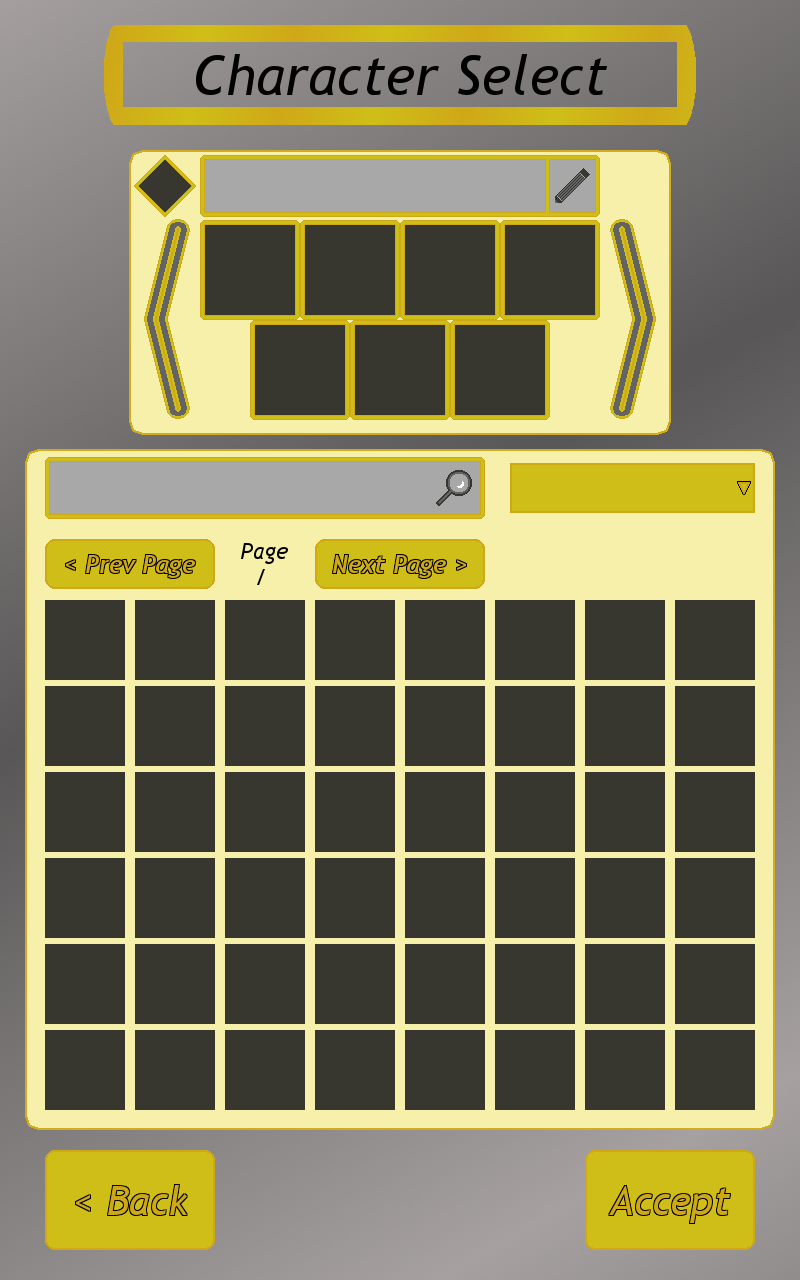
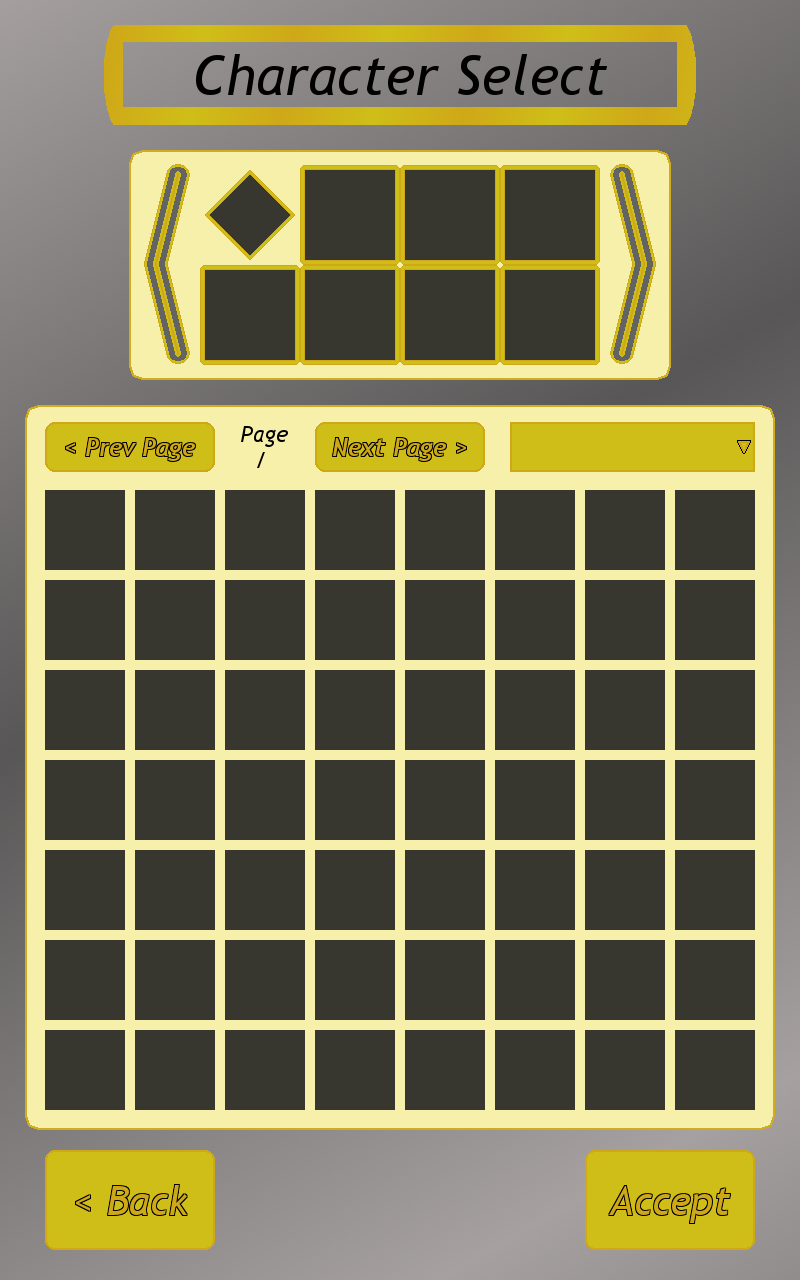
Changed PartySelectScreen again

diff --git a/app/src/main/java/ultrapoulet/wifeygame/screens/PartySelectScreen.java b/app/src/main/java/ultrapoulet/wifeygame/screens/PartySelectScreen.java
@@ -49,11 +49,11 @@ public class PartySelectScreen extends Screen {
 
     private int currentPage = 0;
     private int maxPage;
-    //Number of Columns
-    private final static int COLUMN_SIZE = 6;
     //Number of Rows
-    private final static int ROW_SIZE = 8;
-    private final static int PER_PAGE = COLUMN_SIZE * ROW_SIZE;
+    private final static int ROW_SIZE = 7;
+    //Number of Columns
+    private final static int COLUMN_SIZE = 8;
+    private final static int PER_PAGE = ROW_SIZE * COLUMN_SIZE;
 
     private final static int HALF_SCALE = 50;
     private final static int PARTY_SCALE = 57;
@@ -75,15 +75,15 @@ public class PartySelectScreen extends Screen {
     private Button prevButton;
     private static final int PREV_BUTTON_LEFT_X = 45;
     private static final int PREV_BUTTON_RIGHT_X = 215;
-    private static final int PREV_BUTTON_TOP_Y = 539;
-    private static final int PREV_BUTTON_BOT_Y = 589;
+    private static final int PREV_BUTTON_TOP_Y = 422;
+    private static final int PREV_BUTTON_BOT_Y = 472;
     private static final String PREV_BUTTON_STRING = "Prev";
 
     private Button nextButton;
     private static final int NEXT_BUTTON_LEFT_X = 315;
     private static final int NEXT_BUTTON_RIGHT_X = 485;
-    private static final int NEXT_BUTTON_TOP_Y = 539;
-    private static final int NEXT_BUTTON_BOT_Y = 589;
+    private static final int NEXT_BUTTON_TOP_Y = 422;
+    private static final int NEXT_BUTTON_BOT_Y = 472;
     private static final String NEXT_BUTTON_STRING = "Next";
 
     private DropdownMenu sortDropdown;
@@ -91,8 +91,8 @@ public class PartySelectScreen extends Screen {
     private List<String> sortingList;
     private static final int SORT_BUTTON_LEFT_X = 510;
     private static final int SORT_BUTTON_RIGHT_X = 755;
-    private static final int SORT_BUTTON_TOP_Y = 462;
-    private static final int SORT_BUTTON_BOT_Y = 512;
+    private static final int SORT_BUTTON_TOP_Y = 422;
+    private static final int SORT_BUTTON_BOT_Y = 472;
     private static final String ALPHA_SORT_STRING = "A -> Z";
     private static final String STR_SORT_STRING = "Strength";
     private static final String MAG_SORT_STRING = "Magic";
@@ -114,19 +114,20 @@ public class PartySelectScreen extends Screen {
 
     private static final int CUR_PAGE_X = 255;
     private static final int MAX_PAGE_X = 265;
-    private static final int PAGE_Y = 556;
+    private static final int PAGE_Y = 439;
     private static final int PAGE_WIDTH = 20;
     private static final int PAGE_HEIGHT = 40;
 
     private ButtonList partyList;
 
-    private static final int PARTY_IMAGE_BASE_ROW_1_LEFT_X = 205;
-    private static final int PARTY_IMAGE_BASE_ROW_1_RIGHT_X = 295;
-    private static final int PARTY_IMAGE_BASE_ROW_2_LEFT_X = 255;
-    private static final int PARTY_IMAGE_BASE_ROW_2_RIGHT_X = 345;
+    private static final int PARTY_NUM_TOP_ROW = 3;
+    private static final int PARTY_IMAGE_BASE_ROW_1_LEFT_X = 305;
+    private static final int PARTY_IMAGE_BASE_ROW_1_RIGHT_X = 395;
+    private static final int PARTY_IMAGE_BASE_ROW_2_LEFT_X = 205;
+    private static final int PARTY_IMAGE_BASE_ROW_2_RIGHT_X = 295;
     private static final int PARTY_IMAGE_OFFSET = 100;
-    private static final int PARTY_IMAGE_BASE_TOP_Y = 225;
-    private static final int PARTY_IMAGE_BASE_BOT_Y = 315;
+    private static final int PARTY_IMAGE_BASE_TOP_Y = 170;
+    private static final int PARTY_IMAGE_BASE_BOT_Y = 260;
 
     private ButtonList recruitList;
 
@@ -135,9 +136,9 @@ public class PartySelectScreen extends Screen {
     private static final int CHAR_IMAGE_BASE_LEFT_X = 45;
     private static final int CHAR_IMAGE_BASE_RIGHT_X = CHAR_IMAGE_BASE_LEFT_X + CHAR_IMAGE_WIDTH;
     private static final int CHAR_IMAGE_OFFSET_X = 90;
-    private static final int CHAR_IMAGE_BASE_TOP_Y = 600;
+    private static final int CHAR_IMAGE_BASE_TOP_Y = 490;
     private static final int CHAR_IMAGE_BASE_BOT_Y = CHAR_IMAGE_BASE_TOP_Y + CHAR_IMAGE_HEIGHT;
-    private static final int CHAR_IMAGE_OFFSET_Y = 86;
+    private static final int CHAR_IMAGE_OFFSET_Y = 90;
     private static final int CHAR_FAVORITE_SIZE = 30;
 
     private static final int CHAR_REQUIRED_HOLDER_BASE_X = CHAR_IMAGE_BASE_LEFT_X - 3;
@@ -313,15 +314,15 @@ public class PartySelectScreen extends Screen {
             int rightX;
             int topY;
             int botY;
-            if(i < 4) {
+            if(i < PARTY_NUM_TOP_ROW) {
                 leftX = PARTY_IMAGE_BASE_ROW_1_LEFT_X + PARTY_IMAGE_OFFSET * i;
                 rightX = PARTY_IMAGE_BASE_ROW_1_RIGHT_X + PARTY_IMAGE_OFFSET * i;
                 topY = PARTY_IMAGE_BASE_TOP_Y;
                 botY = PARTY_IMAGE_BASE_BOT_Y;
             }
             else {
-                leftX = PARTY_IMAGE_BASE_ROW_2_LEFT_X + PARTY_IMAGE_OFFSET * (i - 4);
-                rightX = PARTY_IMAGE_BASE_ROW_2_RIGHT_X + PARTY_IMAGE_OFFSET * (i - 4);
+                leftX = PARTY_IMAGE_BASE_ROW_2_LEFT_X + PARTY_IMAGE_OFFSET * (i - PARTY_NUM_TOP_ROW);
+                rightX = PARTY_IMAGE_BASE_ROW_2_RIGHT_X + PARTY_IMAGE_OFFSET * (i - PARTY_NUM_TOP_ROW);
                 topY = PARTY_IMAGE_BASE_TOP_Y + PARTY_IMAGE_OFFSET;
                 botY = PARTY_IMAGE_BASE_BOT_Y + PARTY_IMAGE_OFFSET;
             }
@@ -330,10 +331,10 @@ public class PartySelectScreen extends Screen {
 
         recruitList = new ButtonList();
         for(int i = 0; i < PER_PAGE; i++){
-            int leftX = CHAR_IMAGE_BASE_LEFT_X + CHAR_IMAGE_OFFSET_X * (i % ROW_SIZE);
-            int rightX = CHAR_IMAGE_BASE_RIGHT_X + CHAR_IMAGE_OFFSET_X * (i % ROW_SIZE);
-            int topY = CHAR_IMAGE_BASE_TOP_Y + CHAR_IMAGE_OFFSET_Y * ((i % PER_PAGE) / ROW_SIZE);
-            int botY = CHAR_IMAGE_BASE_BOT_Y + CHAR_IMAGE_OFFSET_Y * ((i % PER_PAGE) / ROW_SIZE);
+            int leftX = CHAR_IMAGE_BASE_LEFT_X + CHAR_IMAGE_OFFSET_X * (i % COLUMN_SIZE);
+            int rightX = CHAR_IMAGE_BASE_RIGHT_X + CHAR_IMAGE_OFFSET_X * (i % COLUMN_SIZE);
+            int topY = CHAR_IMAGE_BASE_TOP_Y + CHAR_IMAGE_OFFSET_Y * ((i % PER_PAGE) / COLUMN_SIZE);
+            int botY = CHAR_IMAGE_BASE_BOT_Y + CHAR_IMAGE_OFFSET_Y * ((i % PER_PAGE) / COLUMN_SIZE);
             recruitList.addButton(new Button(leftX, rightX, topY, botY, false, "RECRUIT_" + i));
         }
     }
@@ -669,8 +670,8 @@ public class PartySelectScreen extends Screen {
         basicButtonList.drawImage(g);
         for(int i = 0; i < currentParty.size(); i++){
             if(!dragging || i != draggingPartyIndex) {
-                int x = (i < 4) ?  PARTY_IMAGE_OFFSET * i + PARTY_IMAGE_BASE_ROW_1_LEFT_X : PARTY_IMAGE_OFFSET * (i - 4) + PARTY_IMAGE_BASE_ROW_2_LEFT_X;
-                int y = (i < 4) ? PARTY_IMAGE_BASE_TOP_Y : PARTY_IMAGE_BASE_TOP_Y + PARTY_IMAGE_OFFSET;
+                int x = (i < PARTY_NUM_TOP_ROW) ?  PARTY_IMAGE_OFFSET * i + PARTY_IMAGE_BASE_ROW_1_LEFT_X : PARTY_IMAGE_OFFSET * (i - PARTY_NUM_TOP_ROW) + PARTY_IMAGE_BASE_ROW_2_LEFT_X;
+                int y = (i < PARTY_NUM_TOP_ROW) ? PARTY_IMAGE_BASE_TOP_Y : PARTY_IMAGE_BASE_TOP_Y + PARTY_IMAGE_OFFSET;
                 g.drawPercentageImage(partyImages.get(i), x, y, PARTY_SCALE, PARTY_SCALE);
                 if(currentParty.get(i).isFavorite()) {
                     g.drawScaledImage(Assets.Favorite,  x, y, CHAR_FAVORITE_SIZE, CHAR_FAVORITE_SIZE);
@@ -681,8 +682,8 @@ public class PartySelectScreen extends Screen {
             }
         }
         for(int i = maxPartySize; i < 7; i++){
-            int x = (i < 4) ?  PARTY_IMAGE_OFFSET * i + PARTY_IMAGE_BASE_ROW_1_LEFT_X : PARTY_IMAGE_OFFSET * (i - 4) + PARTY_IMAGE_BASE_ROW_2_LEFT_X;
-            int y = (i < 4) ? PARTY_IMAGE_BASE_TOP_Y : PARTY_IMAGE_BASE_TOP_Y + PARTY_IMAGE_OFFSET;
+            int x = (i < PARTY_NUM_TOP_ROW) ?  PARTY_IMAGE_OFFSET * i + PARTY_IMAGE_BASE_ROW_1_LEFT_X : PARTY_IMAGE_OFFSET * (i - PARTY_NUM_TOP_ROW) + PARTY_IMAGE_BASE_ROW_2_LEFT_X;
+            int y = (i < PARTY_NUM_TOP_ROW) ? PARTY_IMAGE_BASE_TOP_Y : PARTY_IMAGE_BASE_TOP_Y + PARTY_IMAGE_OFFSET;
             g.drawImage(Assets.LockSelection, x, y);
         }
 
@@ -696,24 +697,24 @@ public class PartySelectScreen extends Screen {
         for(int i = minIndex; i < validCharacters.size() && i < maxIndex; i++){
             if(requiredCharacters.contains(validCharacters.get(i))){
                 //Since this can only be on row 1, the Y doesn't calculate offset.
-                g.drawImage(Assets.RequiredCharHolder, (i % ROW_SIZE) * CHAR_REQUIRED_OFFSET + CHAR_REQUIRED_HOLDER_BASE_X, CHAR_REQUIRED_HOLDER_BASE_Y);
+                g.drawImage(Assets.RequiredCharHolder, (i % COLUMN_SIZE) * CHAR_REQUIRED_OFFSET + CHAR_REQUIRED_HOLDER_BASE_X, CHAR_REQUIRED_HOLDER_BASE_Y);
             }
             if(!dragging || i != draggingRecruitIndex) {
                 g.drawPercentageImage(recruitImages.get(i - minIndex),
-                        CHAR_IMAGE_OFFSET_X * (i % ROW_SIZE) + CHAR_IMAGE_BASE_LEFT_X,
-                        CHAR_IMAGE_BASE_TOP_Y + CHAR_IMAGE_OFFSET_Y * ((i % PER_PAGE) / ROW_SIZE),
+                        CHAR_IMAGE_OFFSET_X * (i % COLUMN_SIZE) + CHAR_IMAGE_BASE_LEFT_X,
+                        CHAR_IMAGE_BASE_TOP_Y + CHAR_IMAGE_OFFSET_Y * ((i % PER_PAGE) / COLUMN_SIZE),
                         HALF_SCALE, HALF_SCALE);
                 if(validCharacters.get(i).isFavorite()) {
                     g.drawScaledImage(Assets.Favorite,
-                            CHAR_IMAGE_OFFSET_X * (i % ROW_SIZE) + CHAR_IMAGE_BASE_LEFT_X,
-                            CHAR_IMAGE_BASE_TOP_Y + CHAR_IMAGE_OFFSET_Y * ((i % PER_PAGE) / ROW_SIZE),
+                            CHAR_IMAGE_OFFSET_X * (i % COLUMN_SIZE) + CHAR_IMAGE_BASE_LEFT_X,
+                            CHAR_IMAGE_BASE_TOP_Y + CHAR_IMAGE_OFFSET_Y * ((i % PER_PAGE) / COLUMN_SIZE),
                             CHAR_FAVORITE_SIZE, CHAR_FAVORITE_SIZE);
                 }
             }
             if(!validCharacters.get(i).isRecruited()){
                 g.drawPercentageImage(Assets.InvalidChar,
-                        CHAR_IMAGE_OFFSET_X * (i % ROW_SIZE) + CHAR_IMAGE_BASE_LEFT_X,
-                        CHAR_IMAGE_BASE_TOP_Y + CHAR_IMAGE_OFFSET_Y * ((i % PER_PAGE) / ROW_SIZE), HALF_SCALE, HALF_SCALE);
+                        CHAR_IMAGE_OFFSET_X * (i % COLUMN_SIZE) + CHAR_IMAGE_BASE_LEFT_X,
+                        CHAR_IMAGE_BASE_TOP_Y + CHAR_IMAGE_OFFSET_Y * ((i % PER_PAGE) / COLUMN_SIZE), HALF_SCALE, HALF_SCALE);
             }
         }
         if(dragging && draggingRecruitIndex != -1){

diff --git a/app/src/main/java/ultrapoulet/androidgame/framework/implementation/AndroidGame.java b/app/src/main/java/ultrapoulet/androidgame/framework/implementation/AndroidGame.java
@@ -32,7 +32,7 @@ public abstract class AndroidGame extends Activity implements Game {
     Screen screen;
 
     @Override
-    public void onCreate(Bundle savedInstanceState){
+    public void onCreate(Bundle savedInstanceState) {
         super.onCreate(savedInstanceState);
 
         requestWindowFeature(Window.FEATURE_NO_TITLE);
@@ -40,8 +40,8 @@ public abstract class AndroidGame extends Activity implements Game {
                 WindowManager.LayoutParams.FLAG_FULLSCREEN);
 
         boolean isPortrait = getResources().getConfiguration().orientation == Configuration.ORIENTATION_PORTRAIT;
-        int frameBufferWidth = isPortrait ? 800: 1280;
-        int frameBufferHeight = isPortrait ? 1280: 800;
+        int frameBufferWidth = isPortrait ? 800 : 1280;
+        int frameBufferHeight = isPortrait ? 1280 : 800;
         Bitmap frameBuffer = Bitmap.createBitmap(frameBufferWidth,
                 frameBufferHeight, Config.RGB_565);
 
@@ -114,19 +114,18 @@ public abstract class AndroidGame extends Activity implements Game {
         return screen;
     }
 
-    public InputStream openConfig(String filename){
+    public InputStream openConfig(String filename) {
         InputStream in = null;
-        try{
+        try {
             in = getAssets().open(filename);
             return in;
-        }
-        catch (IOException e) {
+        } catch (IOException e) {
             throw new RuntimeException("Couldn't load config from asset '"
                     + filename + "'");
         }
     }
 
-    public SharedPreferences getGamePreferences(String name, int mode){
+    public SharedPreferences getGamePreferences(String name, int mode) {
         return this.getSharedPreferences(name, mode);
     }
 }
